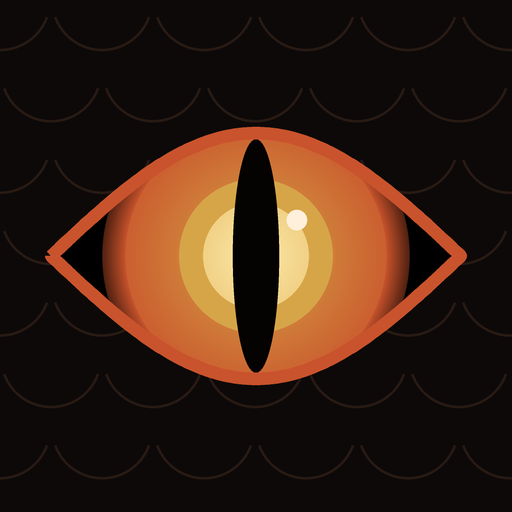
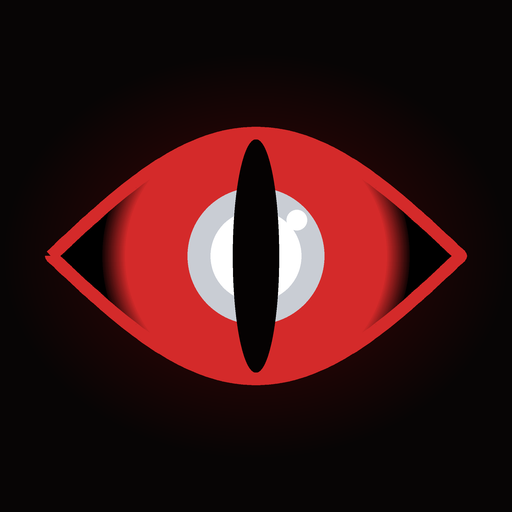
Launchpad: Crimson and Frost dragon themes with a line-art dragon
New dragon colourways: Crimson (black, blood red, chrome dragon; new
default) and Frost (midnight navy, ice-blue lightning dragon, snowy
mountains, falling snow). The warm look stays as Ember, plus Terminal.
The dragon is drawn on canvas behind the pages and large on the start
screen; the dragon eye stays and takes each theme's colours. Saved v2
dragon users move to Crimson. Icons redrawn in crimson.

Claude-Session: https://claude.ai/code/session_01MfLrtpcBXVZAiV9GdGe1p5

diff --git a/launchpad/index.html b/launchpad/index.html
@@ -1,5 +1,5 @@
 <!doctype html>
-<html lang="en" translate="no" data-skin="dragon">
+<html lang="en" translate="no" data-skin="crimson" data-style="dragon">
 <head>
 <meta charset="utf-8">
 <meta name="google" content="notranslate">
@@ -10,13 +10,13 @@
 <link rel="icon" type="image/png" sizes="192x192" href="icon-192.png">
 <link rel="apple-touch-icon" sizes="180x180" href="apple-touch-icon.png">
 <link rel="manifest" href="manifest.webmanifest">
-<meta name="theme-color" content="#0d0908">
+<meta name="theme-color" content="#070505">
 <meta name="mobile-web-app-capable" content="yes">
 <meta name="apple-mobile-web-app-capable" content="yes">
 <meta name="apple-mobile-web-app-status-bar-style" content="black-translucent">
 <meta name="apple-mobile-web-app-title" content="Launchpad">
 <link rel="preconnect" href="https://fonts.googleapis.com">
-<link rel="stylesheet" href="https://fonts.googleapis.com/css2?family=Cinzel:wght@600;700&family=Alegreya+Sans:wght@400;500;700&family=JetBrains+Mono:wght@400;600;700&display=swap">
+<link rel="stylesheet" href="https://fonts.googleapis.com/css2?family=Cinzel:wght@600;700&family=Oxanium:wght@600;700&family=Alegreya+Sans:wght@400;500;700&family=JetBrains+Mono:wght@400;600;700&display=swap">
 <script>
 /* service worker makes the app installable; it always fetches fresh and only uses the cache offline */
 if('serviceWorker' in navigator&&location.protocol==='https:') addEventListener('load',()=>navigator.serviceWorker.register('sw.js').catch(()=>{}));
@@ -26,23 +26,34 @@ if('serviceWorker' in navigator&&location.protocol==='https:') addEventListener(
    Deliberately dark only. Two skins: "dragon" (obsidian, ember, gold scales) and "terminal" (green-black grid).
    The accent is the user's own pick; --gold is the dragon's fixed second colour. */
 :root{
-  --accent:#c9532c;
-  --gold:#d6a548;
-  --bg:#0d0908; --panel:rgba(22,14,12,.86); --panel-2:rgba(32,21,17,.92); --line:#3a2721;
-  --ink:#f1e4d8; --muted:#a8907f; --danger:#e0574a; --white:#fff; --black:#000;
+  --accent:#d42a2a;
+  --gold:#c9cdd4;
+  --bg:#070505; --panel:rgba(18,9,9,.8); --panel-2:rgba(30,14,14,.9); --line:#3b1d1d;
+  --ink:#f0eaea; --muted:#a69595; --eye-core:#ffffff; --danger:#e0574a; --white:#fff; --black:#000;
   --acc-soft:color-mix(in srgb,var(--accent) 15%,transparent);
   --acc-line:color-mix(in srgb,var(--accent) 50%,var(--line));
   --on-accent:#140806;
-  --display:"Cinzel","Trajan Pro",Georgia,serif;
+  --display:"Oxanium","Eurostile",system-ui,sans-serif;
   --body:"Alegreya Sans",system-ui,-apple-system,sans-serif;
   --mono:"JetBrains Mono",ui-monospace,SFMono-Regular,Menlo,Consolas,monospace;
   --h-mark:"◆ ";
   color-scheme:dark;
 }
+:root[data-skin=frost]{
+  --gold:#d5ebff;
+  --bg:#060a14; --panel:rgba(9,15,30,.78); --panel-2:rgba(15,24,44,.9); --line:#1f2e4a;
+  --ink:#e6eef8; --muted:#8fa2bb; --eye-core:#f4fbff;
+}
+:root[data-skin=ember]{
+  --gold:#d6a548;
+  --bg:#0d0908; --panel:rgba(22,14,12,.86); --panel-2:rgba(32,21,17,.92); --line:#3a2721;
+  --ink:#f1e4d8; --muted:#a8907f; --eye-core:#ffe9a8;
+  --display:"Cinzel","Trajan Pro",Georgia,serif;
+}
 :root[data-skin=terminal]{
   --gold:#7fae8f;
   --bg:#0a0d0b; --panel:rgba(17,22,19,.86); --panel-2:rgba(24,31,27,.92); --line:#26302a;
-  --ink:#dfe8e2; --muted:#8a9a90;
+  --ink:#dfe8e2; --muted:#8a9a90; --eye-core:#ffffff;
   --display:var(--mono); --body:system-ui,-apple-system,"Segoe UI",sans-serif;
   --h-mark:"> ";
 }
@@ -57,22 +68,25 @@ button:focus-visible,a:focus-visible{outline:2px solid var(--accent);outline-off
 a{color:var(--accent)}
 [hidden]{display:none!important}
 
-/* backdrop layers: own picture, darkening, skin pattern, embers */
+/* backdrop layers: own picture, darkening, skin glow/pattern, dragon scene + particles */
 #bgimg{position:fixed;inset:0;background:center/cover no-repeat;z-index:0}
 #bgdim{position:fixed;inset:0;background:var(--black);z-index:0;pointer-events:none}
 #pattern{position:fixed;inset:0;z-index:0;pointer-events:none}
-[data-skin=dragon] #pattern{
+[data-skin=crimson] #pattern{background:radial-gradient(80% 55% at 50% 28%,color-mix(in srgb,var(--accent) 26%,transparent),transparent 70%),radial-gradient(120% 90% at 50% 40%,transparent 55%,var(--black) 100%)}
+[data-skin=frost] #pattern{background:radial-gradient(90% 50% at 70% 0%,color-mix(in srgb,var(--accent) 22%,transparent),transparent 70%),linear-gradient(#0c1934,var(--bg) 55%)}
+[data-skin=ember] #pattern{
   background:
     radial-gradient(120% 60% at 50% -10%,color-mix(in srgb,var(--accent) 22%,transparent),transparent 65%),
     radial-gradient(circle at 50% 0,transparent 58%,color-mix(in srgb,var(--gold) 11%,transparent) 60%,color-mix(in srgb,var(--gold) 11%,transparent) 66%,transparent 68%) 0 0/30px 22px,
     radial-gradient(circle at 50% 0,transparent 58%,color-mix(in srgb,var(--gold) 11%,transparent) 60%,color-mix(in srgb,var(--gold) 11%,transparent) 66%,transparent 68%) 15px 11px/30px 22px;
   -webkit-mask-image:linear-gradient(#000,transparent 70%);mask-image:linear-gradient(#000,transparent 70%)}
-[data-skin=terminal] #pattern{opacity:.5;
+[data-style=terminal] #pattern{opacity:.5;
   background-image:linear-gradient(var(--line) 1px,transparent 1px),linear-gradient(90deg,var(--line) 1px,transparent 1px);
   background-size:32px 32px;-webkit-mask-image:radial-gradient(ellipse at 50% 0%,#000 0%,transparent 75%);mask-image:radial-gradient(ellipse at 50% 0%,#000 0%,transparent 75%)}
 body.has-bg #pattern{display:none}
-#embers{position:fixed;inset:0;width:100%;height:100%;z-index:0;pointer-events:none}
-[data-skin=terminal] #embers{display:none}
+#fx{position:fixed;inset:0;width:100%;height:100%;z-index:0;pointer-events:none}
+[data-style=terminal] #fx,[data-style=terminal] #bootfx{display:none}
+#bootfx{position:absolute;inset:0;width:100%;height:100%;pointer-events:none}
 
 /* header + tabs */
 header{position:relative;z-index:2;padding-top:10px;padding-left:max(16px,env(safe-area-inset-left,0px));padding-right:max(16px,env(safe-area-inset-right,0px))}
@@ -80,10 +94,10 @@ header{position:relative;z-index:2;padding-top:10px;padding-left:max(16px,env(sa
 .brand{font:700 17px var(--display);letter-spacing:.08em;flex:1;display:flex;align-items:center;gap:8px}
 .brand b{color:var(--accent);font-weight:700}
 .brand svg{width:26px;height:26px;flex:0 0 auto}
-[data-skin=terminal] .brand{font:700 15px var(--mono);letter-spacing:.04em}
-[data-skin=terminal] .brand svg{display:none}
+[data-style=terminal] .brand{font:700 15px var(--mono);letter-spacing:.04em}
+[data-style=terminal] .brand svg{display:none}
 .cursor{display:none;width:.55em;height:1em;background:var(--accent);margin-left:2px;animation:blink 1.1s steps(1) infinite}
-[data-skin=terminal] .cursor{display:inline-block}
+[data-style=terminal] .cursor{display:inline-block}
 @keyframes blink{50%{opacity:0}}
 .iconbtn{width:40px;height:40px;border-radius:10px;border:1px solid var(--line);background:var(--panel);display:grid;place-items:center;font-size:18px}
 .tabs{display:flex;gap:6px;overflow-x:auto;scrollbar-width:none;max-width:640px;margin:10px auto 0;padding-bottom:10px}
@@ -99,8 +113,9 @@ header{position:relative;z-index:2;padding-top:10px;padding-left:max(16px,env(sa
 .wrap{max-width:640px;margin:0 auto;display:flex;flex-direction:column;gap:14px}
 h2{font:700 23px/1.15 var(--display);margin:4px 0 0;letter-spacing:.04em;text-wrap:balance}
 h2::before{content:var(--h-mark);color:var(--accent);font-size:.7em;vertical-align:.12em}
-[data-skin=terminal] h2{font-size:20px;letter-spacing:.01em}
-[data-skin=terminal] h2::before{font-size:1em;vertical-align:0}
+[data-skin=crimson] h2,[data-skin=frost] h2{text-transform:uppercase;letter-spacing:.08em;font-size:21px}
+[data-style=terminal] h2{font-size:20px;letter-spacing:.01em}
+[data-style=terminal] h2::before{font-size:1em;vertical-align:0}
 .sub{color:var(--muted);font-size:15px;margin:-8px 0 0}
 
 /* dots */
@@ -139,10 +154,10 @@ h2::before{content:var(--h-mark);color:var(--accent);font-size:.7em;vertical-ali
 .prog .top span:last-child{color:var(--muted)}
 .meter{height:8px;border-radius:4px;background:var(--line);overflow:hidden;margin-top:5px}
 .meter i{display:block;height:100%;background:linear-gradient(90deg,var(--accent),color-mix(in srgb,var(--accent) 55%,var(--gold)));border-radius:4px;transition:width .3s}
-[data-skin=terminal] .meter i{background:var(--accent)}
+[data-style=terminal] .meter i{background:var(--accent)}
 .big{font:700 28px var(--mono);font-variant-numeric:tabular-nums}
 .pos{color:var(--gold)} .neg{color:var(--danger)}
-[data-skin=terminal] .pos{color:var(--accent)}
+[data-style=terminal] .pos{color:var(--accent)}
 .alldone{font:700 18px var(--display);color:var(--gold)}
 
 /* checklist groups */
@@ -150,7 +165,7 @@ h2::before{content:var(--h-mark);color:var(--accent);font-size:.7em;vertical-ali
 .ghead{all:unset;box-sizing:border-box;cursor:pointer;width:100%;display:flex;align-items:center;gap:10px;padding:13px 14px}
 .ghead:focus-visible{outline:2px solid var(--accent);outline-offset:-2px}
 .ghead .gt{flex:1;font:700 15.5px var(--body);letter-spacing:.01em}
-[data-skin=terminal] .ghead .gt{font:600 14.5px var(--mono)}
+[data-style=terminal] .ghead .gt{font:600 14.5px var(--mono)}
 .ghead .gt small{display:block;font:400 13px var(--body);color:var(--muted);margin-top:1px}
 .ghead .gc{font:600 12px var(--mono);color:var(--muted);font-variant-numeric:tabular-nums}
 .ghead .chev{color:var(--muted);transition:transform .2s;font-family:var(--mono)}
@@ -163,8 +178,8 @@ h2::before{content:var(--h-mark);color:var(--accent);font-size:.7em;vertical-ali
 .item+.item{border-top:1px dashed var(--line)}
 .item label{flex:1;display:flex;gap:11px;align-items:flex-start;cursor:pointer;min-width:0}
 .item input{appearance:none;-webkit-appearance:none;flex:0 0 auto;width:22px;height:22px;margin:1px 0 0;border:1.5px solid var(--muted);border-radius:6px;display:grid;place-items:center;background:transparent}
-[data-skin=dragon] .item input{border-radius:4px;transform:rotate(45deg) scale(.86)}
-[data-skin=dragon] .item input:checked::after{transform:translate(-1px,-1px)}
+[data-style=dragon] .item input{border-radius:4px;transform:rotate(45deg) scale(.86)}
+[data-style=dragon] .item input:checked::after{transform:translate(-1px,-1px)}
 .item input:checked{background:var(--accent);border-color:var(--accent)}
 .item input:checked::after{content:"";width:6px;height:11px;border:solid var(--on-accent);border-width:0 2.5px 2.5px 0;transform:translateY(-1px) rotate(45deg)}
 .item input:focus-visible{outline:2px solid var(--accent);outline-offset:2px}
@@ -202,8 +217,9 @@ textarea:focus,input:focus,select:focus{outline:none;border-color:var(--accent)}
 #sheet .in{width:100%;max-width:560px;max-height:88dvh;overflow-y:auto;background:var(--bg);border:1px solid var(--line);border-bottom:0;border-radius:18px 18px 0 0;
   padding-block:18px calc(20px + env(safe-area-inset-bottom,0px));padding-left:max(16px,env(safe-area-inset-left,0px));padding-right:max(16px,env(safe-area-inset-right,0px));display:flex;flex-direction:column;gap:18px}
 #sheet h3{font:700 18px var(--display);letter-spacing:.06em;margin:0;display:flex;justify-content:space-between;align-items:center}
-.seg{display:flex;gap:8px;margin-top:8px}
-.seg button{flex:1;border:1px solid var(--line);background:var(--panel-2);border-radius:10px;padding:10px;font:600 13.5px var(--mono);color:var(--muted)}
+.seg{display:grid;grid-template-columns:repeat(4,1fr);gap:8px;margin-top:8px}
+@media (max-width:380px){.seg{grid-template-columns:repeat(2,1fr)}}
+.seg button{border:1px solid var(--line);background:var(--panel-2);border-radius:10px;padding:10px;font:600 13.5px var(--mono);color:var(--muted)}
 .seg button[aria-pressed=true]{border-color:var(--accent);color:var(--ink);background:var(--acc-soft)}
 .swatches{display:flex;gap:10px;flex-wrap:wrap;align-items:center;margin-top:8px}
 .sw{width:36px;height:36px;border-radius:50%;border:2px solid transparent;padding:0}
@@ -219,12 +235,13 @@ input[type=range]{width:100%;accent-color:var(--accent);margin-top:8px}
 #boot{position:fixed;inset:0;z-index:30;background:var(--bg);display:flex;flex-direction:column;justify-content:center;align-items:center;
   padding-block:24px;padding-left:max(24px,env(safe-area-inset-left,0px));padding-right:max(24px,env(safe-area-inset-right,0px));transition:opacity .35s;overflow-y:auto}
 #boot.out{opacity:0;pointer-events:none}
-#boot .bin{width:100%;max-width:360px;display:flex;flex-direction:column;align-items:center;gap:14px}
+#boot .bin{position:relative;width:100%;max-width:360px;display:flex;flex-direction:column;align-items:center;gap:14px}
 #eye{width:220px;height:110px;display:block}
-[data-skin=terminal] #eye{display:none}
-#boot pre{font:13.5px/1.7 var(--mono);color:var(--muted);margin:0;width:100%;white-space:pre-wrap;min-height:7em}
+[data-style=terminal] #eye{display:none}
+#boot pre{font:13.5px/1.7 var(--mono);color:var(--muted);text-shadow:0 1px 3px var(--black);margin:0;width:100%;white-space:pre-wrap;min-height:7em}
 #boot .ok{color:var(--accent);font-weight:700;font-size:20px}
-[data-skin=dragon] #boot .ok{font:700 22px var(--display);letter-spacing:.1em;color:var(--gold)}
+[data-style=dragon] #boot .ok{font:700 22px var(--display);letter-spacing:.14em;color:var(--gold)}
+[data-skin=crimson] #boot .ok{color:var(--accent)}
 #boot .tap{font:600 12px var(--mono);color:var(--muted);letter-spacing:.2em;animation:blink 1.4s steps(1) infinite;background:none;border:0;padding:8px}
 #lock{width:100%;display:flex;flex-direction:column;align-items:center;gap:12px}
 #lockMsg{font:600 14px var(--mono);color:var(--ink);text-align:center;min-height:1.4em}
@@ -232,7 +249,7 @@ input[type=range]{width:100%;accent-color:var(--accent);margin-top:8px}
 .pindots{display:flex;gap:12px;height:16px}
 .pindots i{width:14px;height:14px;border-radius:50%;border:1.5px solid var(--muted)}
 .pindots i.on{background:var(--accent);border-color:var(--accent)}
-[data-skin=dragon] .pindots i{border-radius:2px;transform:rotate(45deg) scale(.85)}
+[data-style=dragon] .pindots i{border-radius:2px;transform:rotate(45deg) scale(.85)}
 .pindots.shake{animation:shake .35s}
 @keyframes shake{25%{transform:translateX(-8px)}75%{transform:translateX(8px)}}
 .keypad{display:grid;grid-template-columns:repeat(3,68px);gap:10px}
@@ -248,9 +265,10 @@ input[type=range]{width:100%;accent-color:var(--accent);margin-top:8px}
 </style>
 </head>
 <body>
-<div id="bgimg"></div><div id="bgdim"></div><div id="pattern"></div><canvas id="embers"></canvas>
+<div id="bgimg"></div><div id="bgdim"></div><div id="pattern"></div><canvas id="fx"></canvas>
 
 <div id="boot">
+  <canvas id="bootfx" aria-hidden="true"></canvas>
   <div class="bin">
     <canvas id="eye" width="440" height="220" aria-hidden="true"></canvas>
     <pre id="bootText"></pre>
@@ -280,7 +298,7 @@ input[type=range]{width:100%;accent-color:var(--accent);margin-top:8px}
     <h3>Settings <button class="iconbtn" id="closeSettings" aria-label="Close">✕</button></h3>
     <div>
       <div class="label">Theme</div>
-      <div class="seg" id="skins"><button data-skin="dragon">Dragon</button><button data-skin="terminal">Terminal</button></div>
+      <div class="seg" id="skins"><button data-skin="crimson">Crimson</button><button data-skin="frost">Frost</button><button data-skin="ember">Ember</button><button data-skin="terminal">Terminal</button></div>
     </div>
     <div>
       <div class="label">Accent colour</div>
@@ -395,19 +413,25 @@ const PAGES=[
 ];
 const STATUSES=['Bought','Repairing','Fixed','Listed','Sold'];
 const SKINS={
-  dragon:{accent:'#c9532c',presets:['#c9532c','#c99a3b','#a8323a','#3f8f6b','#5b8fb0','#8a62b8','#3a9d5d'],
-    boot:['> launchpad v2.0','> the lair stirs ...','> identity check'],done:'Every task done. The hoard is yours.'},
-  terminal:{accent:'#3a9d5d',presets:['#3a9d5d','#2f8f8a','#4a7fc1','#8a6cc9','#c0773a','#b8a23a','#c25b6e'],
-    boot:['> launchpad v2.0','> loading modules: cyber · income · apps · flips','> identity check'],done:'All tasks done. Access level: legend.'}
+  crimson:{style:'dragon',dragon:'chrome',accent:'#d42a2a',presets:['#d42a2a','#b3122e','#ff4d3d','#e0e0e0','#5fb4ea','#c99a3b','#3a9d5d'],
+    boot:['> launchpad v3.0','> waking the dragon ...','> identity check'],done:'Every task done. The dragon bows to you.'},
+  frost:{style:'dragon',dragon:'bolt',accent:'#5fb4ea',presets:['#5fb4ea','#3d8bff','#8fd3ff','#7a6cf0','#4fd1c5','#d42a2a','#e0e0e0'],
+    boot:['> launchpad v3.0','> storm over the peaks ...','> identity check'],done:'Every task done. The storm is yours.'},
+  ember:{style:'dragon',dragon:'gold',accent:'#c9532c',presets:['#c9532c','#c99a3b','#a8323a','#3f8f6b','#5b8fb0','#8a62b8','#3a9d5d'],
+    boot:['> launchpad v3.0','> the lair stirs ...','> identity check'],done:'Every task done. The hoard is yours.'},
+  terminal:{style:'terminal',accent:'#3a9d5d',presets:['#3a9d5d','#2f8f8a','#4a7fc1','#8a6cc9','#c0773a','#b8a23a','#c25b6e'],
+    boot:['> launchpad v3.0','> loading modules: cyber · income · apps · flips','> identity check'],done:'All tasks done. Access level: legend.'}
 };
 const RAINBOW='conic-gradient(red,yellow,lime,cyan,blue,magenta,red)';
 
 /* ---------- state ---------- */
 const KEY='launchpad.v1';
-const blank=()=>({checked:{},closed:{},notes:{},flips:[],skin:'dragon',accent:SKINS.dragon.accent,bg:'',dim:55,page:0,pinHash:'',pinSalt:''});
+const blank=()=>({checked:{},closed:{},notes:{},flips:[],skin:'crimson',accent:SKINS.crimson.accent,bg:'',dim:55,page:0,pinHash:'',pinSalt:''});
 let S=blank();
 try{ const saved=JSON.parse(localStorage.getItem(KEY)||'{}');
-  if(!saved.skin&&saved.accent==='#3a9d5d') delete saved.accent; // v1 default green → dragon ember
+  if(!saved.skin&&saved.accent==='#3a9d5d') delete saved.accent; // v1 default green → new default
+  if(saved.skin==='dragon'){ saved.skin='crimson'; if(saved.accent==='#c9532c') delete saved.accent; } // v2 dragon → crimson
+  if(saved.skin&&!SKINS[saved.skin]) delete saved.skin;
   Object.assign(S,saved); }catch(e){}
 function save(){ try{ localStorage.setItem(KEY,JSON.stringify(S)); return true; }catch(e){ return false; } }
 
@@ -429,32 +453,94 @@ function flipTotals(){
 
 /* ---------- theme ---------- */
 function applyTheme(){
-  const root=document.documentElement, r=root.style; root.dataset.skin=S.skin; r.setProperty('--accent',S.accent);
+  const root=document.documentElement, r=root.style; root.dataset.skin=S.skin; root.dataset.style=SKINS[S.skin].style; r.setProperty('--accent',S.accent);
   const h=S.accent.replace('#',''); const [R,G,B]=[0,2,4].map(i=>parseInt(h.substr(i,2),16)/255).map(c=>c<=.03928?c/12.92:((c+.055)/1.055)**2.4);
   const L=.2126*R+.7152*G+.0722*B; r.setProperty('--on-accent',L>.18?'#140806':'#ffffff');
   $('#bgimg').style.backgroundImage=S.bg?`url("${S.bg}")`:'none';
   $('#bgdim').style.opacity=S.bg?S.dim/100:0;
   document.body.classList.toggle('has-bg',!!S.bg);
-  embers.toggle(S.skin==='dragon');
+  fx.toggle(SKINS[S.skin].style==='dragon');
+  if(!$('#boot').hidden) paintBoot();
 }
 const cssVar=n=>getComputedStyle(document.documentElement).getPropertyValue(n).trim();
 
-/* rising embers behind the pages (dragon skin only) */
-const embers=(()=>{
-  const c=$('#embers'), x=c.getContext('2d'); let ps=[], on=false, raf=0, W=0, H=0, dpr=1, col='#c9532c', gold='#d6a548';
-  function size(){ dpr=Math.min(2,devicePixelRatio||1); W=c.clientWidth; H=c.clientHeight; c.width=W*dpr; c.height=H*dpr; x.setTransform(dpr,0,0,dpr,0,0); }
-  function spawn(y){ return {x:Math.random()*W,y:y??H+10,r:.8+Math.random()*1.8,vy:.25+Math.random()*.6,ph:Math.random()*6.28,g:Math.random()<.35}; }
-  function frame(){ x.clearRect(0,0,W,H);
-    for(const p of ps){ p.y-=p.vy; p.ph+=.03; p.x+=Math.sin(p.ph)*.3; if(p.y<-10) Object.assign(p,spawn());
-      const fade=Math.min(1,p.y/(H*.6)); x.globalAlpha=Math.max(0,fade*(.35+.3*Math.sin(p.ph*3)));
-      x.fillStyle=p.g?gold:col; x.beginPath(); x.arc(p.x,p.y,p.r,0,6.283); x.fill(); }
-    x.globalAlpha=1; raf=requestAnimationFrame(frame); }
-  function start(){ cancelAnimationFrame(raf); size(); col=cssVar('--accent'); gold=cssVar('--gold'); ps=Array.from({length:Math.round(W*H/22000)+10},()=>spawn(Math.random()*H));
-    if(reduceMotion){ frame(); cancelAnimationFrame(raf); } else frame(); }
-  addEventListener('resize',()=>on&&start());
+/* backdrop scene: line-art dragon (tapered cubic strokes in a 100×100 box), frost mountains, sparks or snow */
+const DRAGON=[
+ [[55,32,52,22,49,16,46,11],2.2,1.6],
+ [[46,11,32,4,16,3,0,6],1.6,.2],[[46,11,32,9,18,12,4,18],1.4,.2],[[46,11,34,15,22,22,12,30],1.3,.2],[[46,11,38,20,30,30,24,40],1.2,.2],
+ [[0,6,6,12,2,15,4,18],.45,.3],[[4,18,10,24,8,27,12,30],.45,.3],[[12,30,18,34,18,37,24,40],.45,.35],[[24,40,34,40,42,38,52,40],.45,.9],
+ [[55,32,58,22,64,18,70,22],2.4,1.8],
+ [[70,22,74,22,79,25,84,30],1.8,.3],[[70,24,74,28,77,30,81,32],1.2,.2],
+ [[70,21,68,17,67,14,64,10],1.2,.1],[[72,21,72,17,73,14,72,11],1,.1],
+ [[62,20,60,16,59,14,56,13],.9,.1],[[58,25,55,22,53,21,50,21],.8,.1],
+ [[55,32,42,46,44,66,60,72],3,2.6],[[58,36,48,48,50,63,62,68],1,.6],
+ [[60,72,74,76,84,72,90,80],2.6,1.2],[[90,80,95,87,97,93,100,100],1.2,.1],[[62,68,78,72,88,66,94,74],.8,.1],
+ [[50,56,56,58,60,60,64,58],1.2,.4],[[64,58,66,57,67,58,68,60],.5,.1]
+];
+function drawDragon(x,ox,oy,size,look){
+  let s=7; const rnd=()=>((s=(s*16807)%2147483647)/2147483647-.5);
+  x.save(); x.translate(ox,oy); x.scale(size/100,size/100);
+  let fill=look.a;
+  if(look.kind==='chrome'){ fill=x.createLinearGradient(0,0,100,100); ['#ffffff','#8d939c','#eef0f3','#5f646c','#d9dce1'].forEach((c,i)=>fill.addColorStop(i/4,c)); }
+  if(look.kind==='gold'){ fill=x.createLinearGradient(0,0,100,100); fill.addColorStop(0,look.b); fill.addColorStop(.5,look.a); fill.addColorStop(1,look.b); }
+  const passes=look.kind==='bolt'?[{blur:14,col:look.glow,w:1.6},{blur:0,col:look.a,w:1}]:[{blur:0,col:fill,w:1}];
+  for(const ps of passes){
+    x.shadowBlur=ps.blur*size/400; x.shadowColor=look.glow||'transparent'; x.fillStyle=ps.col;
+    for(const [c,w0,w1] of DRAGON){
+      const L=[],R=[],n=28;
+      for(let i=0;i<=n;i++){ const t=i/n,u=1-t;
+        const px=u*u*u*c[0]+3*u*u*t*c[2]+3*u*t*t*c[4]+t*t*t*c[6], py=u*u*u*c[1]+3*u*u*t*c[3]+3*u*t*t*c[5]+t*t*t*c[7];
+        const dx=3*u*u*(c[2]-c[0])+6*u*t*(c[4]-c[2])+3*t*t*(c[6]-c[4]), dy=3*u*u*(c[3]-c[1])+6*u*t*(c[5]-c[3])+3*t*t*(c[7]-c[5]);
+        const m=Math.hypot(dx,dy)||1, nx=-dy/m, ny=dx/m, j=look.kind==='bolt'&&i%3===0&&i&&i<n?rnd()*1.4:0, w=(w0+(w1-w0)*t)/2*ps.w;
+        L.push([px+nx*(w+j),py+ny*(w+j)]); R.push([px-nx*(w-j),py-ny*(w-j)]); }
+      x.beginPath(); L.forEach((p,i)=>i?x.lineTo(p[0],p[1]):x.moveTo(p[0],p[1])); R.reverse().forEach(p=>x.lineTo(p[0],p[1])); x.closePath(); x.fill();
+    }
+  }
+  x.restore();
+}
+function drawMountains(x,W,H){
+  let s=11; const rnd=()=>(s=(s*16807)%2147483647)/2147483647;
+  [[.74,.2,'rgba(175,200,235,.5)','#16243f','#0a1222'],[.84,.14,'rgba(150,175,215,.4)','#0f1a30','#070c18']].forEach(([base,amp,snow,mid,low])=>{
+    const by=H*base, a=H*amp, peaks=Array.from({length:5},()=>[rnd(),.5+rnd()*.5,1.5+rnd()*2.5]);
+    x.beginPath(); x.moveTo(0,H);
+    for(let px=0;px<=W+6;px+=6){ const xn=px/W; let y=0; for(const [c,h,st] of peaks) y=Math.max(y,h*(1-Math.abs(xn-c)*st)); y+=(rnd()-.5)*.03; x.lineTo(px,by-a*Math.max(.05,y)); }
+    x.lineTo(W,H); x.closePath();
+    const g=x.createLinearGradient(0,by-a,0,by+H*.06); g.addColorStop(0,snow); g.addColorStop(.3,mid); g.addColorStop(1,low); x.fillStyle=g; x.fill();
+  });
+  const g=x.createLinearGradient(0,H*.88,0,H); g.addColorStop(0,'#070c18'); g.addColorStop(1,'#16233b'); x.fillStyle=g; x.fillRect(0,H*.88,W,H*.12);
+}
+function sceneLook(){ const sk=SKINS[S.skin], acc=cssVar('--accent'), gold=cssVar('--gold');
+  return sk.dragon==='chrome'?{kind:'chrome'}:sk.dragon==='bolt'?{kind:'bolt',a:'#e8f6ff',glow:acc}:{kind:'gold',a:gold,b:acc}; }
+/* where: 'bg' = behind the pages (dragon top right, faint), 'boot' = start screen (dragon centred) */
+function paintScene(x,W,H,where){
+  x.clearRect(0,0,W,H);
+  if(SKINS[S.skin].style!=='dragon'||(where==='bg'&&S.bg)) return;
+  if(S.skin==='frost') drawMountains(x,W,H);
+  const D=where==='bg'?Math.min(W*.92,560):Math.min(W*.86,420);
+  x.globalAlpha=where==='bg'?(S.skin==='frost'?.26:.28):.6;
+  drawDragon(x,where==='bg'?W-D*.98:(W-D)/2,where==='bg'?Math.max(60,H*.07):H*.04,D,sceneLook());
+  x.globalAlpha=1;
+}
+function fitCanvas(c){ const d=Math.min(2,devicePixelRatio||1), W=c.clientWidth, H=c.clientHeight; c.width=W*d; c.height=H*d; const x=c.getContext('2d'); x.setTransform(d,0,0,d,0,0); return [x,W,H]; }
+
+const fx=(()=>{
+  const c=$('#fx'), still=document.createElement('canvas'); let x, W=0, H=0, ps=[], raf=0, on=false, snow=false, col='#fff', gold='#fff';
+  function spawn(y){ return {x:Math.random()*W,y:y??(snow?-10:H+10),r:(snow?.6:.8)+Math.random()*1.8,v:(snow?.35:.25)+Math.random()*.6,ph:Math.random()*6.28,g:Math.random()<.35}; }
+  function frame(){ x.clearRect(0,0,W,H); x.drawImage(still,0,0,W,H);
+    for(const p of ps){ p.ph+=.03; p.x+=Math.sin(p.ph)*(snow?.5:.3); p.y+=snow?p.v:-p.v;
+      if(snow?p.y>H+10:p.y<-10) Object.assign(p,spawn());
+      const fade=snow?1:Math.min(1,p.y/(H*.6)); x.globalAlpha=Math.max(0,fade*(snow?.55:.35+.3*Math.sin(p.ph*3)));
+      x.fillStyle=snow?'#eaf4ff':p.g?gold:col; x.beginPath(); x.arc(p.x,p.y,p.r,0,6.283); x.fill(); }
+    x.globalAlpha=1; if(!reduceMotion) raf=requestAnimationFrame(frame); }
+  function start(){ cancelAnimationFrame(raf); [x,W,H]=fitCanvas(c);
+    const d=Math.min(2,devicePixelRatio||1); still.width=W*d; still.height=H*d; const sx=still.getContext('2d'); sx.setTransform(d,0,0,d,0,0); paintScene(sx,W,H,'bg');
+    snow=S.skin==='frost'; col=cssVar('--accent'); gold=cssVar('--gold');
+    ps=Array.from({length:Math.round(W*H/(snow?9000:22000))+10},()=>spawn(Math.random()*H)); frame(); }
+  addEventListener('resize',()=>{ if(on) start(); if(!$('#boot').hidden) paintBoot(); });
   document.addEventListener('visibilitychange',()=>{ if(!on) return; if(document.hidden) cancelAnimationFrame(raf); else start(); });
-  return {toggle(v){ on=v; if(v) start(); else { cancelAnimationFrame(raf); x.clearRect(0,0,W,H); } }};
+  return {toggle(v){ on=v; if(v) start(); else { cancelAnimationFrame(raf); if(x) x.clearRect(0,0,W,H); } }};
 })();
+function paintBoot(){ const [x,W,H]=fitCanvas($('#bootfx')); paintScene(x,W,H,'boot'); }
 
 /* ---------- rendering ---------- */
 function linkHtml(url){ return url?`<a class="open" href="${esc(url)}" target="_blank" rel="noopener">Open ↗</a>`:''; }
@@ -676,7 +762,7 @@ const eye=(()=>{
     x.clearRect(0,0,W,H); x.lineWidth=4; x.strokeStyle=acc; x.lineCap='round';
     if(o<.03){ x.beginPath(); x.moveTo(cx-hw,cy); x.quadraticCurveTo(cx,cy+H*.06,cx+hw,cy); x.stroke(); return; }
     x.save(); x.beginPath(); x.moveTo(cx-hw,cy); x.quadraticCurveTo(cx,cy-hh*2,cx+hw,cy); x.quadraticCurveTo(cx,cy+hh*2,cx-hw,cy); x.closePath(); x.clip();
-    const g=x.createRadialGradient(cx,cy,4,cx,cy,hw*.62); g.addColorStop(0,'#ffe9a8'); g.addColorStop(.35,gold); g.addColorStop(.75,acc); g.addColorStop(1,'#1a0805');
+    const g=x.createRadialGradient(cx,cy,4,cx,cy,hw*.62); g.addColorStop(0,cssVar('--eye-core')); g.addColorStop(.35,gold); g.addColorStop(.75,acc); g.addColorStop(1,cssVar('--bg'));
     x.fillStyle=g; x.fillRect(0,0,W,H);
     x.strokeStyle='rgba(60,20,5,.35)'; x.lineWidth=1.5;
     for(let i=0;i<36;i++){ const a=i/36*6.283; x.beginPath(); x.moveTo(cx+Math.cos(a)*14,cy+Math.sin(a)*14); x.lineTo(cx+Math.cos(a)*hw*.6,cy+Math.sin(a)*hw*.6); x.stroke(); }
@@ -742,7 +828,7 @@ function typeGranted(){
 /* full: replay the typing intro. Otherwise go straight to the PIN pad. */
 function lock(full,m){
   clearTimeout(bootTimer); locked=true; sheet.hidden=true; clearPages();
-  bootEl.hidden=false; bootEl.classList.remove('out'); enterBtn.hidden=true; lockEl.hidden=true; eye.close();
+  bootEl.hidden=false; bootEl.classList.remove('out'); paintBoot(); enterBtn.hidden=true; lockEl.hidden=true; eye.close();
   afterUnlock=full?'tap':'enter';
   const ready=()=>{ lockEl.hidden=false; promptFor(m||(S.pinHash?'enter':'new')); };
   if(full) typeLines(SKINS[S.skin].boot,ready); else { bootText.innerHTML=esc(SKINS[S.skin].boot.at(-1))+'\n'; ready(); }

diff --git a/launchpad/sw.js b/launchpad/sw.js
@@ -1,5 +1,5 @@
 // Network first: always ask the server for the newest version (skipping the browser's 10-minute cache), fall back to the last copy when offline.
-const CACHE='launchpad-v2';
+const CACHE='launchpad-v3';
 self.addEventListener('install',()=>self.skipWaiting());
 self.addEventListener('activate',e=>e.waitUntil(caches.keys().then(ks=>Promise.all(ks.filter(k=>k!==CACHE).map(k=>caches.delete(k)))).then(()=>self.clients.claim())));
 self.addEventListener('fetch',e=>{
